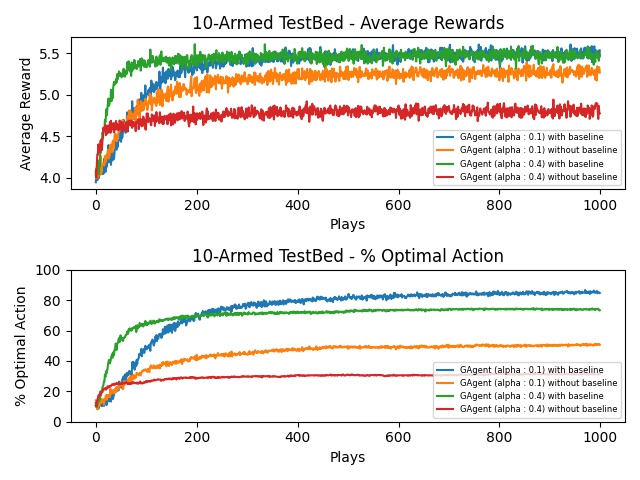
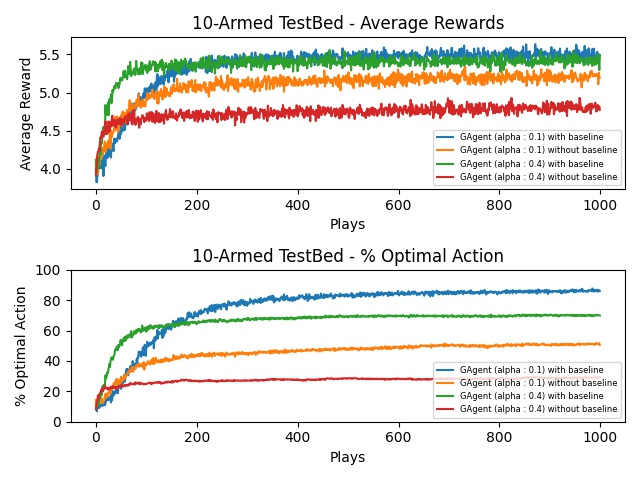
Added algorithms comparisson

diff --git a/bandit-algorithms/common/agents.py b/bandit-algorithms/common/agents.py
@@ -36,7 +36,7 @@ class Agent(abc.ABC):
 
 class SAAgent(Agent):
     """
-    Sample-Averages agent.
+    Sample-Averages e-Greedy agent.
     """
 
     def __init__(self, epsilon, N):
@@ -210,6 +210,10 @@ class GAgent(Agent):
     def update(self, reward):
         """
         Update preferences depending on reward obtained
+
+        The update rule for this algorithm is the folowing:
+        H_t+1[A_t] = H_t[A_t] + alpha(R_t - avg_R_t)*(1 - pi_t[A_t])
+        H_t+1[a] = H_t[A] - alpha(R_t - avg_R_t)*pi[a] for all a != A_t
         """
         self.r_sum[self.last_action] += reward
         self.action_count[self.last_action] += 1
@@ -220,13 +224,14 @@ class GAgent(Agent):
         # not the average on the last action chosen (np.sum(self.r_sum)/n instead of 
         # self.r_sum[self.last_action]/n )
         reward_avg = np.sum(self.r_sum, axis=0)/n if self.baseline else 0 
-        # print("Reward: {} | Reward avg: {} | H[a_t]: {} | pi[a_t]: {}".format(reward, reward_avg, self.H[self.last_action], self.last_pi))
-        mask = np.full(len(self.H), False)
-        mask[self.last_action] = True
 
-        # We update preferences (we increase the last action taken and decrease the others)
-        self.H[mask] += self.alpha*(reward - reward_avg)*(1 - self.last_pi[mask])
-        self.H[~mask] -= self.alpha*(reward - reward_avg)*self.last_pi[~mask]
+        # Vectorization of update rules into a single one
+        mask = np.zeros(len(self.H))
+        mask[self.last_action] = 1 # mask is equivalent to 1x==a
+
+        # We update preferences, we increase (or decrease) the last action taken based on the reward obtained
+        # compared to the average reward obtained and modify the rest of the action in the opposite direction
+        self.H += self.alpha*(reward - reward_avg)*(mask - self.last_pi)
 
     # Return string for graph legend
     def __str__(self):

diff --git a/bandit-algorithms/stationary_algorithms_comparisson.py b/bandit-algorithms/stationary_algorithms_comparisson.py
@@ -1,0 +1,34 @@
+from common.agents import SAAgent, WAAgent, UCB_SAAgent, GAgent
+from common.enviroments import Enviroment, StatTestbed
+from pathlib import Path
+
+import matplotlib.pyplot as plt 
+import numpy as np
+
+def main():
+    thetas = np.logspace(-7, 2, num=10, base=2.0) # Parameters value in log2 scale
+    scores_avg = np.zeros((len(thetas), 4)) # Average scores (of average scores on n iterations) on m plays
+    iterations = 1000
+    plays = 1000
+    k = 10
+
+    testbed = StatTestbed(k)
+
+    for i in range(len(thetas)):
+        agents = [SAAgent(thetas[i], k), WAAgent(0.1, thetas[i], k), UCB_SAAgent(thetas[i], k), GAgent(thetas[i], k)]
+        env = Enviroment(agents, testbed, iterations, plays)
+        scores, _ = env.run()
+        scores_avg[i,:] = np.sum(scores, axis=0)/plays
+
+    path = Path(__file__).resolve() # Path (and file name) to save the image
+    legends = ['e-Greedy', 'Greedy with optimistic initialization (alpha: 0.1)', 'UCB', 'Gradient Bandit']
+    plt.plot(thetas, scores_avg)
+    plt.xscale("log", base=2)
+    plt.title("Algorithms comparisson in {}-bandit problem (stationary)".format(k))
+    plt.ylabel("Average reward over {} plays ran {} times".format(plays, iterations))
+    plt.xlabel(r'Parameter: $\alpha $\epsilon c')
+    plt.legend(legends, loc=4, prop={'size':6})    
+    plt.savefig(path.with_suffix('.jpg'))
+
+if __name__ == "__main__":
+    main()
